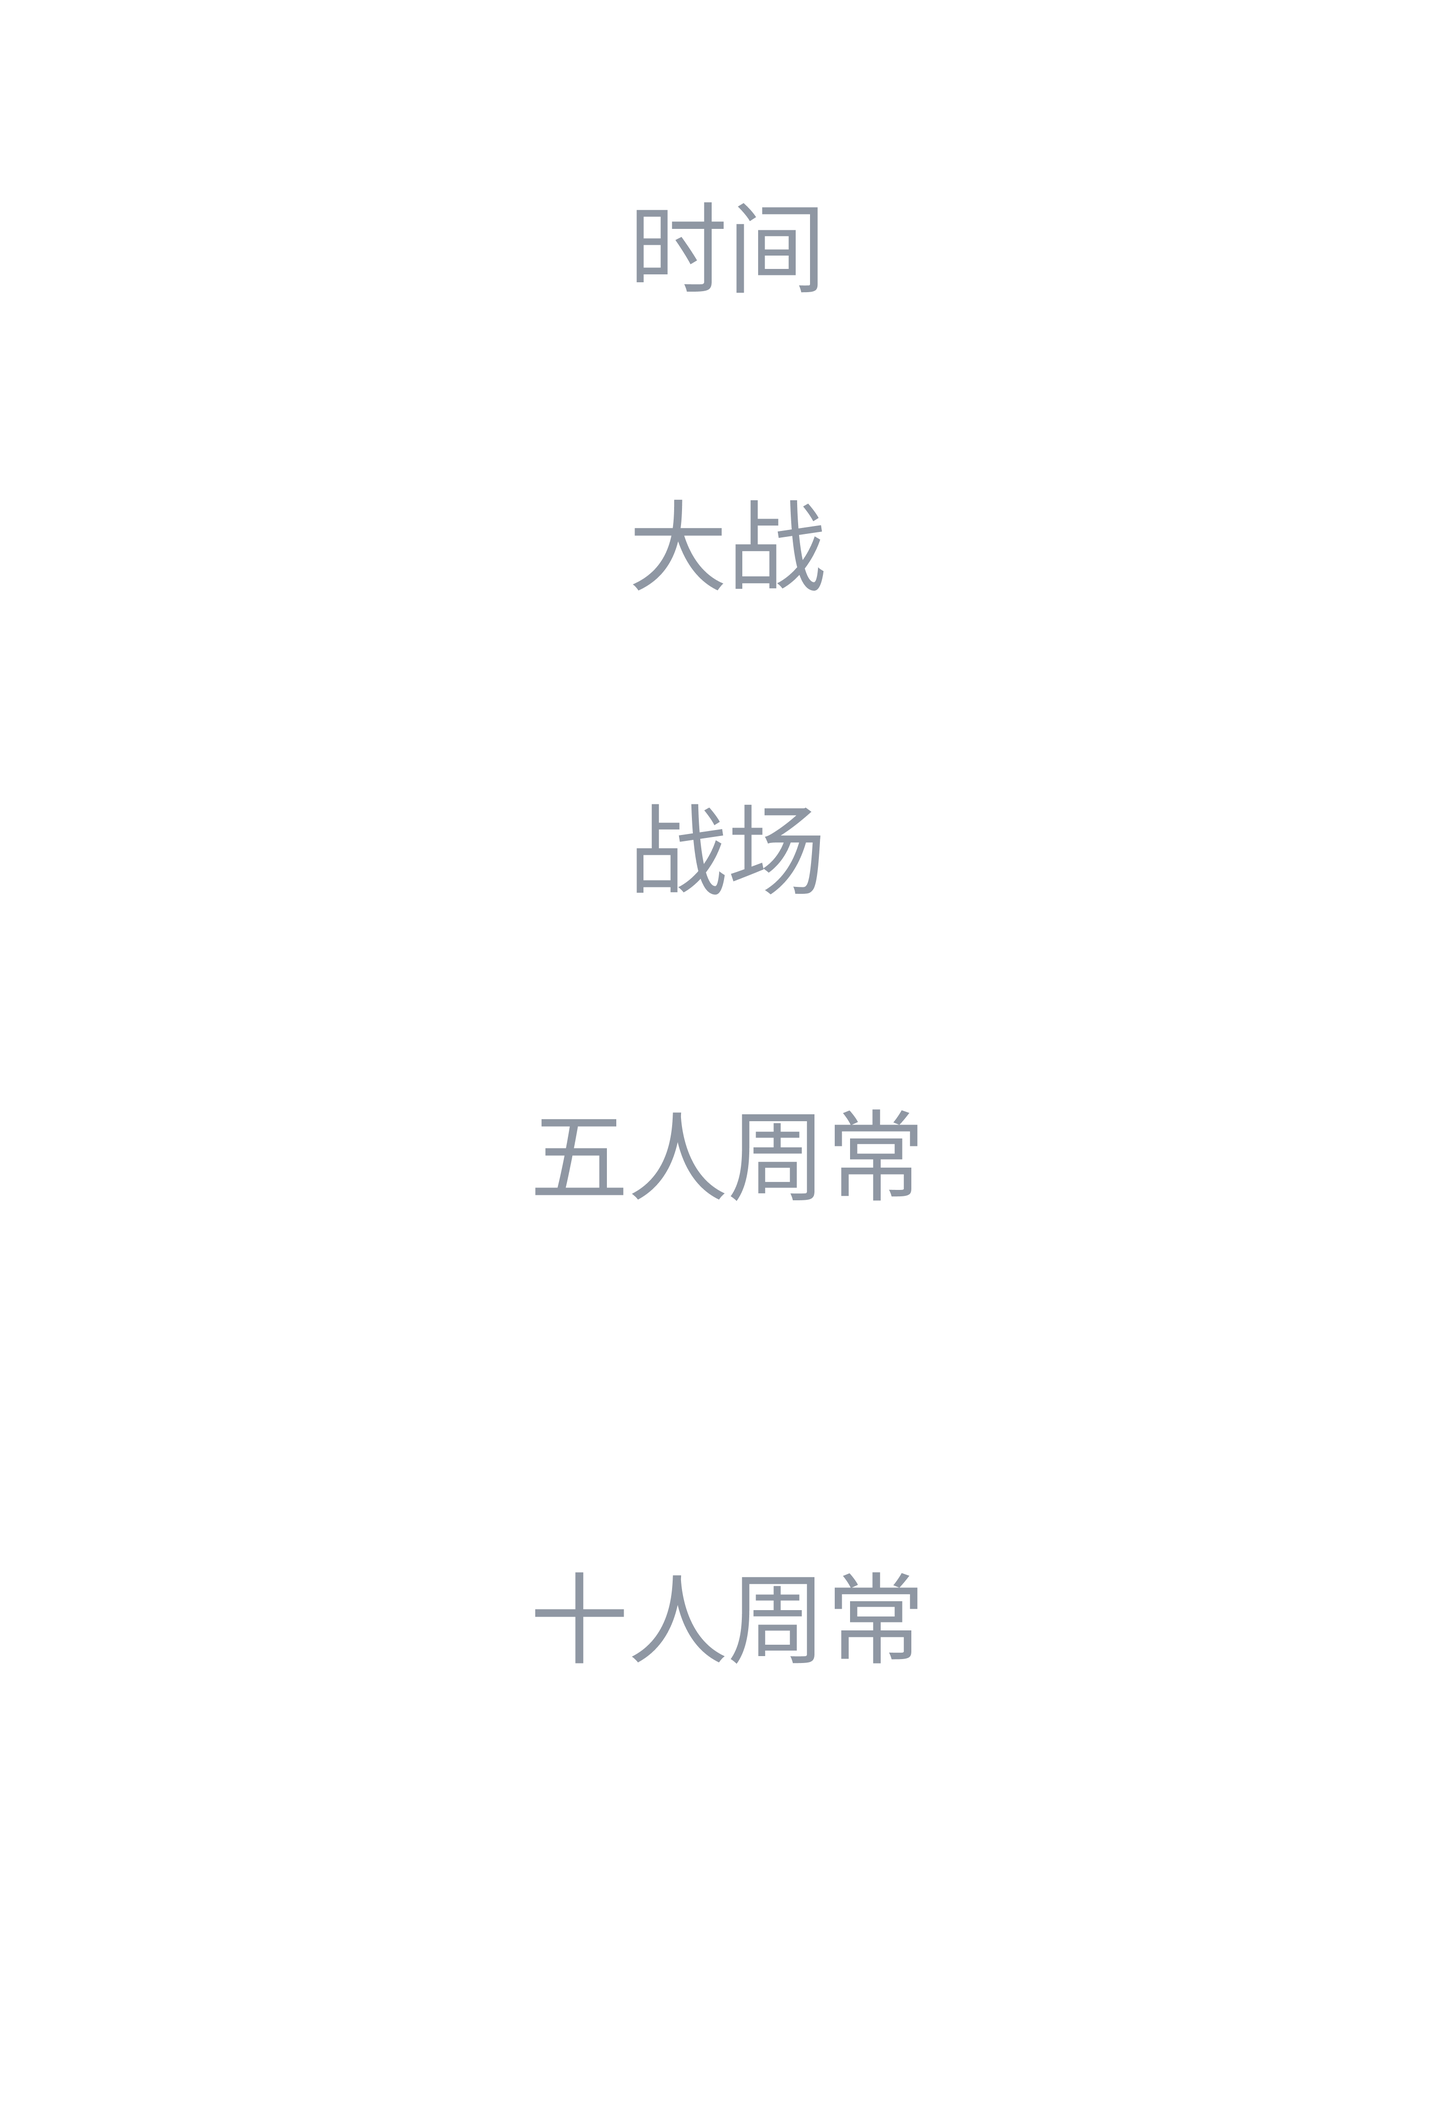
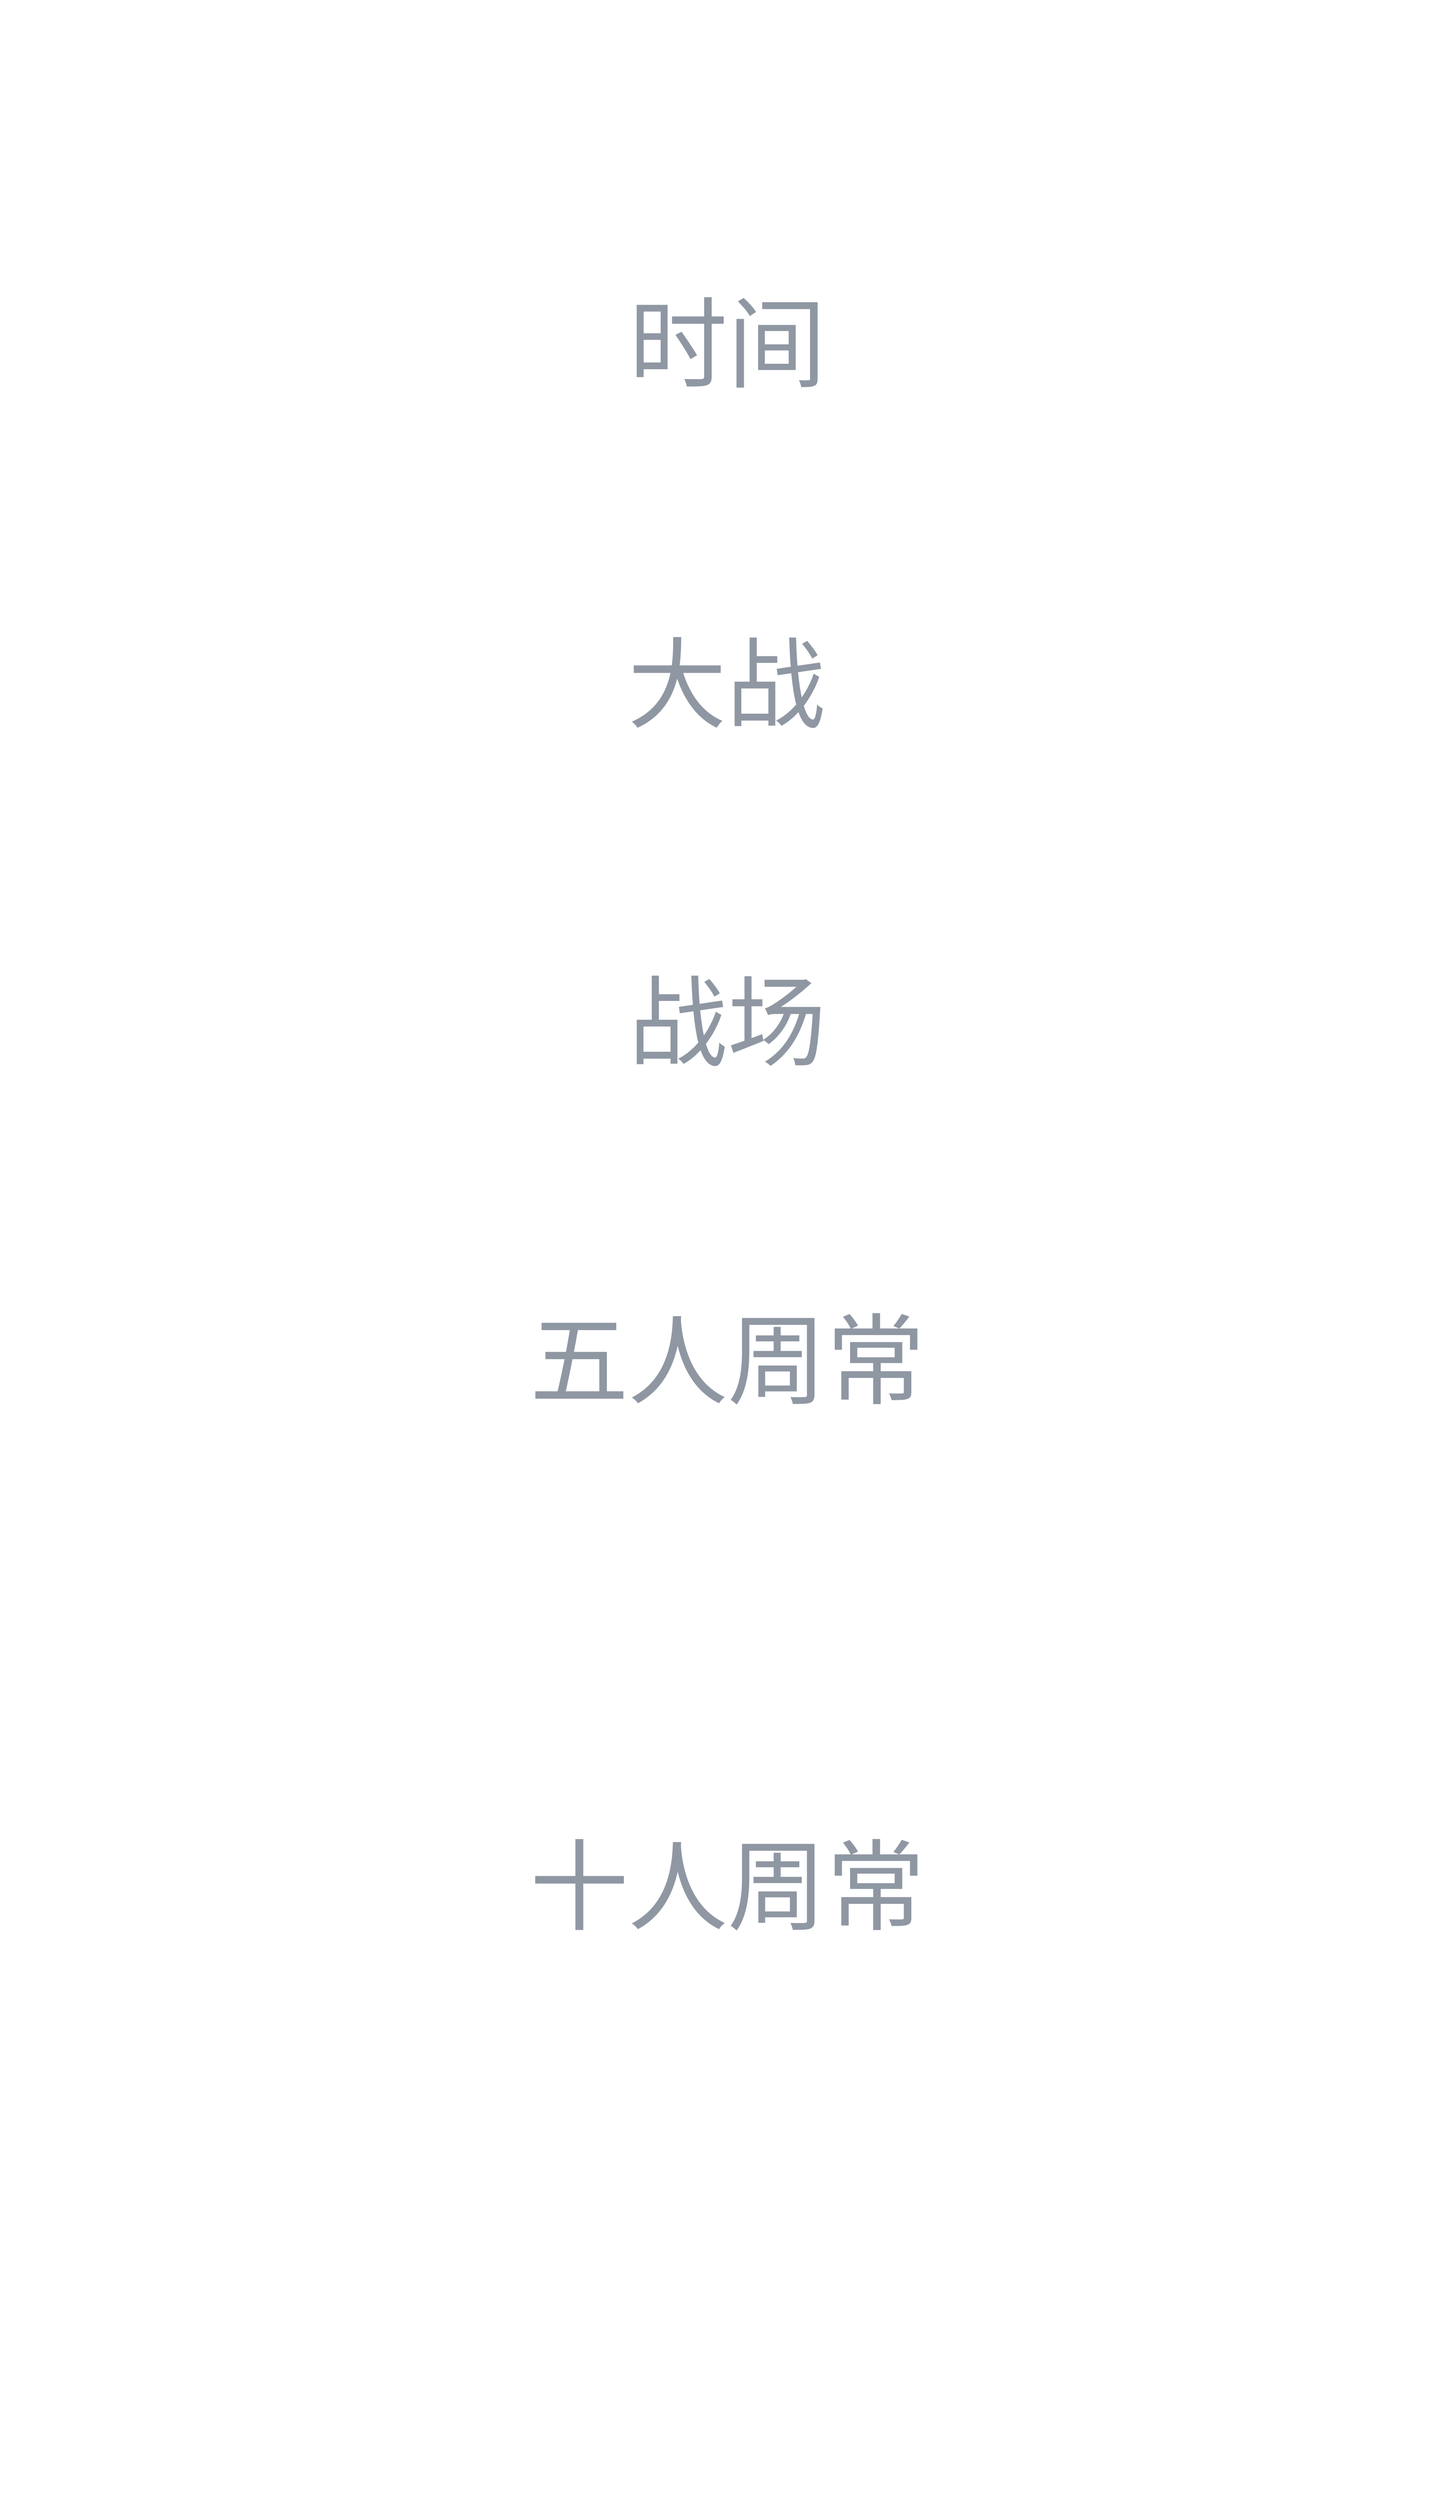
Changes

diff --git a/src/jx3_Daily.py b/src/jx3_Daily.py
@@ -7,6 +7,7 @@
 @Time : 2021/09/29 22:39:29
 @Docs : 请求推栏战绩例子
 """
+import asyncio
 import time
 import nonebot
 import src.Data.jxDatas as jxData
@@ -61,35 +62,38 @@ class GetDaily:
         # 时间设置
         today_text_width = daily_font.getlength(today)
         today_size_width = (images_width - today_text_width) / 2
-        draw.text((today_size_width, 165 * redouble), today, font=daily_font, fill=fill_color)
+        draw.text((today_size_width, 212 * redouble), today, font=daily_font, fill=fill_color)
 
         # 大战
         war_text_width = daily_font.getlength(war)
         war_size_width = (images_width - war_text_width) / 2
-        draw.text((war_size_width, 315.68 * redouble), war, font=daily_font, fill=fill_color)
+        draw.text((war_size_width, 384.16 * redouble), war, font=daily_font, fill=fill_color)
 
-        # 大战
+        # 战场
         battle_text_width = daily_font.getlength(battle)
         battle_size_width = (images_width - battle_text_width) / 2
-        draw.text((battle_size_width, 469.37 * redouble), battle, font=daily_font, fill=fill_color)
+        draw.text((battle_size_width, 555.18 * redouble), battle, font=daily_font, fill=fill_color)
 
         # 五人周常
         for floor, element in enumerate(five_persons_instance_respective):
             five_persons_instance_text_width = daily_font.getlength(element)
             five_persons_instance_size_width = (images_width - five_persons_instance_text_width) / 2
-            draw.text((five_persons_instance_size_width, 624.06 * redouble + floor * 127), element, font=daily_font, fill=fill_color)
+            draw.text((five_persons_instance_size_width, 726.18 * redouble + floor * 51 * 4), element, font=daily_font,
+                      fill=fill_color)
 
         # 十人周常
         for floor, element in enumerate(ten_persons_instance_respective):
             ten_persons_instance_text_width = daily_font.getlength(element)
             ten_persons_instance_size_width = (images_width - ten_persons_instance_text_width) / 2
-            draw.text((ten_persons_instance_size_width, 858.11 * redouble + floor * 127), element, font=daily_font, fill=fill_color)
+            draw.text((ten_persons_instance_size_width, 992.18 * redouble + floor * 51 * 4), element, font=daily_font,
+                      fill=fill_color)
 
         dpi = (1000, 1000)
 
         # # 保存图像
         datetime = int(time.time())
         images.save(f"/tmp/daily_{datetime}.png", dpi=dpi)
+        # images.save(f"images/daily_new.png", dpi=dpi)
         return datetime
 
     async def query_weekly_daily(self):
@@ -98,3 +102,4 @@ class GetDaily:
             nonebot.logger.error("API接口Daily获取信息失败，请查看错误")
             return None
         return response.data
+

diff --git a/src/jx3_JJCTop.py b/src/jx3_JJCTop.py
@@ -163,5 +163,5 @@ class GetJJCTopRecord:
 
 
 # # #
-# Record = GetJJCTopRecord(10, 50)
+# Record = GetJJCTopRecord(11, 50)
 # asyncio.run(Record.create_top_history_to_database())
